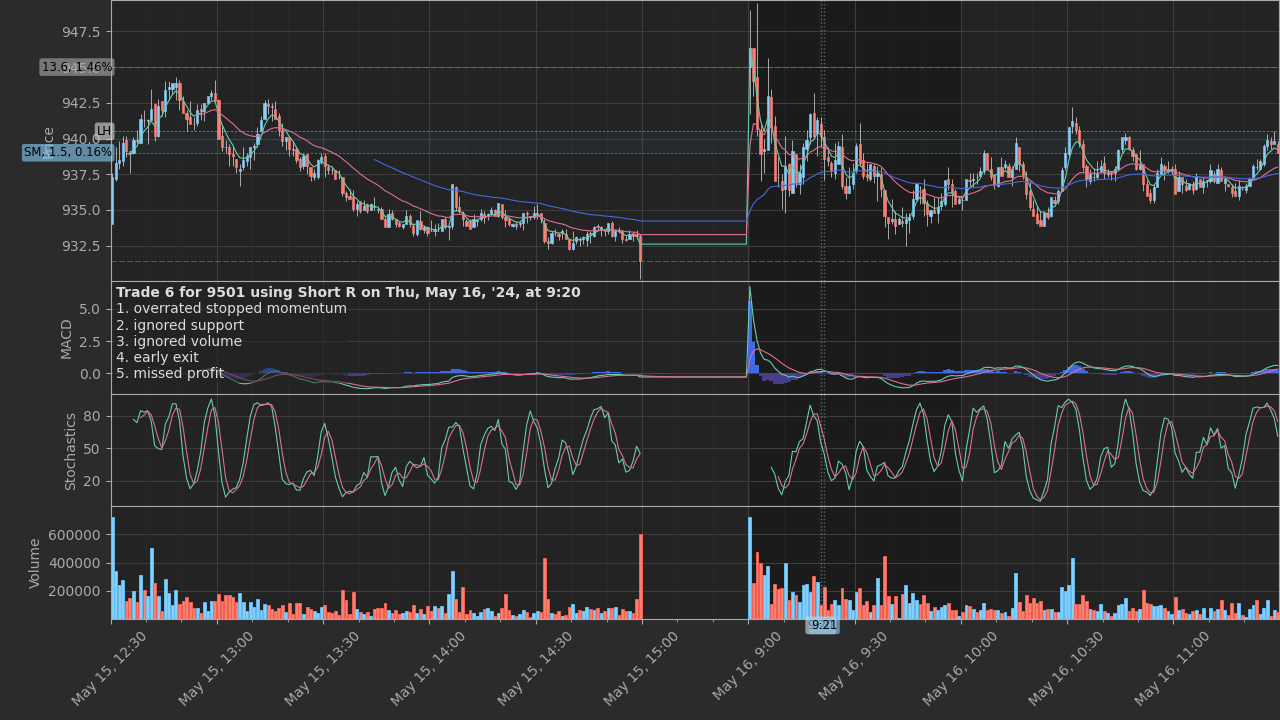
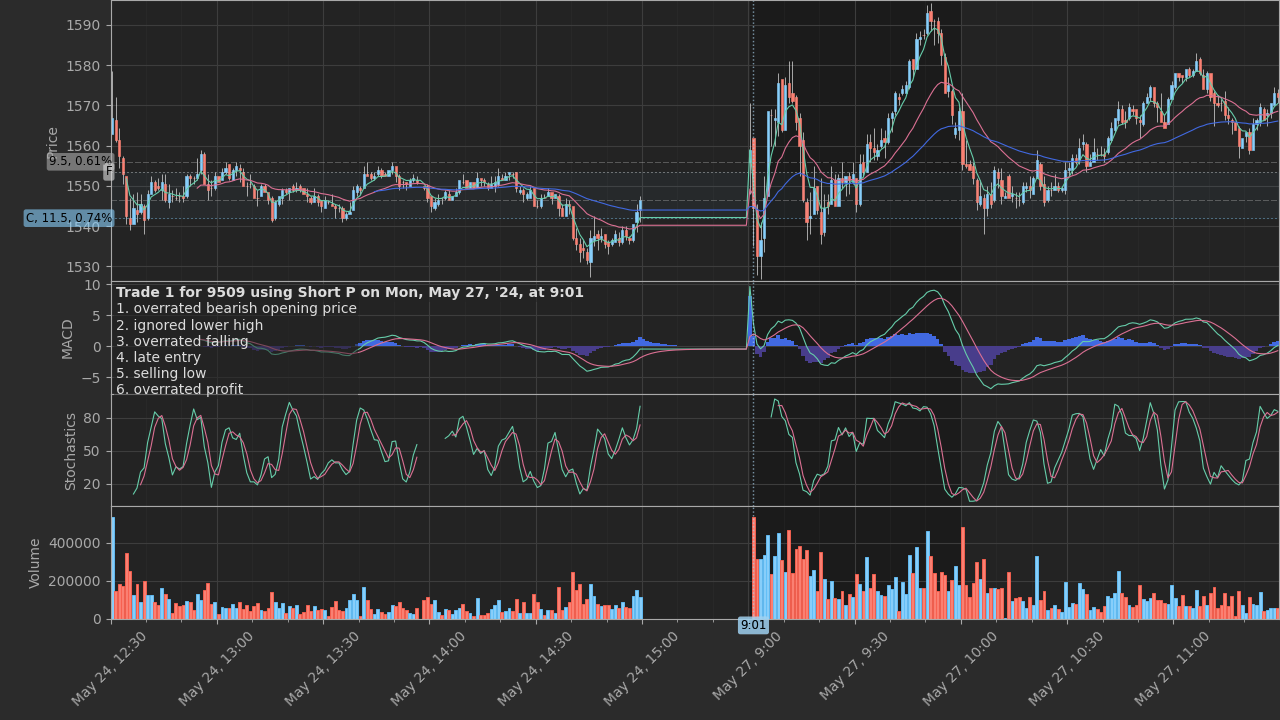
Add amber

diff --git a/styles/amber.py b/styles/amber.py
@@ -1,0 +1,48 @@
+"""Configure the style settings for mplfinance plots."""
+
+style = {'style_name': 'amber',
+         'base_mpl_style': 'default',
+         'marketcolors': {'candle': {'up': 'lemonchiffon',
+                                     'down': 'tomato'},
+                          'edge': {'up': 'lemonchiffon',
+                                   'down': 'tomato'},
+                          'wick': {'up': 'white',
+                                   'down': 'white'},
+                          'ohlc': {'up': 'lemonchiffon',
+                                   'down': 'tomato'},
+                          'volume': {'up': 'lemonchiffon',
+                                     'down': 'tomato'},
+                          'vcedge': {'up': 'lemonchiffon',
+                                     'down': 'tomato'},
+                          'vcdopcod': False,
+                          'alpha': 1.0},
+         'mavcolors': ['lightskyblue',
+                       'indianred',
+                       'yellowgreen',
+                       'darkolivegreen'],
+         'y_on_right': False,
+         'gridcolor': '#3d3d3d',
+         'gridstyle': '-',
+         'facecolor': '#232323',
+         'figcolor': '#2b2b2b',
+         'rc': {'axes.edgecolor': 'darkgray',
+                'axes.labelcolor': 'darkgray',
+                'text.color': 'gainsboro',
+                'xtick.color': 'darkgray',
+                'ytick.color': 'darkgray'},
+         # The mplfinance/_styles.py module does not use the following
+         # custom keys.
+         'custom_style': {'neutral_color': 'gainsboro',
+                          'profit_color': 'lemonchiffon',
+                          'loss_color': 'tomato',
+                          'closing_line': '--',
+                          'opening_line': '--',
+                          'entry_line': ':',
+                          'exit_line': ':',
+                          'line_alpha': 0.4,
+                          'filled_area_alpha': 0.04,
+                          'active_trading_hours_color': '#1b1b1b',
+                          'minor_grid_alpha': 0.2,
+                          'tooltip_color': 'black',
+                          'tooltip_bbox_alpha': 0.6,
+                          'text_bbox_alpha': 0.5}}

diff --git a/trading_grapher.py b/trading_grapher.py
@@ -209,9 +209,9 @@ def configure(config_path, can_interpolate=True, can_override=True):
         'is_added': 'True',
         'default_y_offset_ratio': '-0.008'}
     config['Styles'] = {
+        'amber': ('', ''),
+        'ametrine': ('', ''),
         'fluorite': ('', ''),
-        'ametrine': ('trade_type', 'short'),
-        # 'amber': ('', ''),      # TODO
         'opal': ('', '')}
 
     if can_override:

diff --git a/README.md b/README.md
@@ -72,20 +72,20 @@ the configurations above. Then:
 `trading_grapher.py` provides the following style modules, which you can
 specify using the `-S` option.
 
-### `fluorite` ###
+### `amber` ###
 
-![A ‘fluorite’ style chart showing the result of a specific stock day
-trade](examples/fluorite.png)
+![A ‘amber’ style chart showing the result of a specific stock day
+trade](examples/amber.png)
 
 ### `ametrine` ###
 
 ![A ‘ametrine’ style chart showing the result of a specific stock day
 trade](examples/ametrine.png)
 
-<!-- ### `amber` ### -->
+### `fluorite` (Default) ###
 
-<!-- ![A ‘amber’ style chart showing the result of a specific stock day
-trade](examples/amber.png) -->
+![A ‘fluorite’ style chart showing the result of a specific stock day
+trade](examples/fluorite.png)
 
 ### `opal` ###
 
